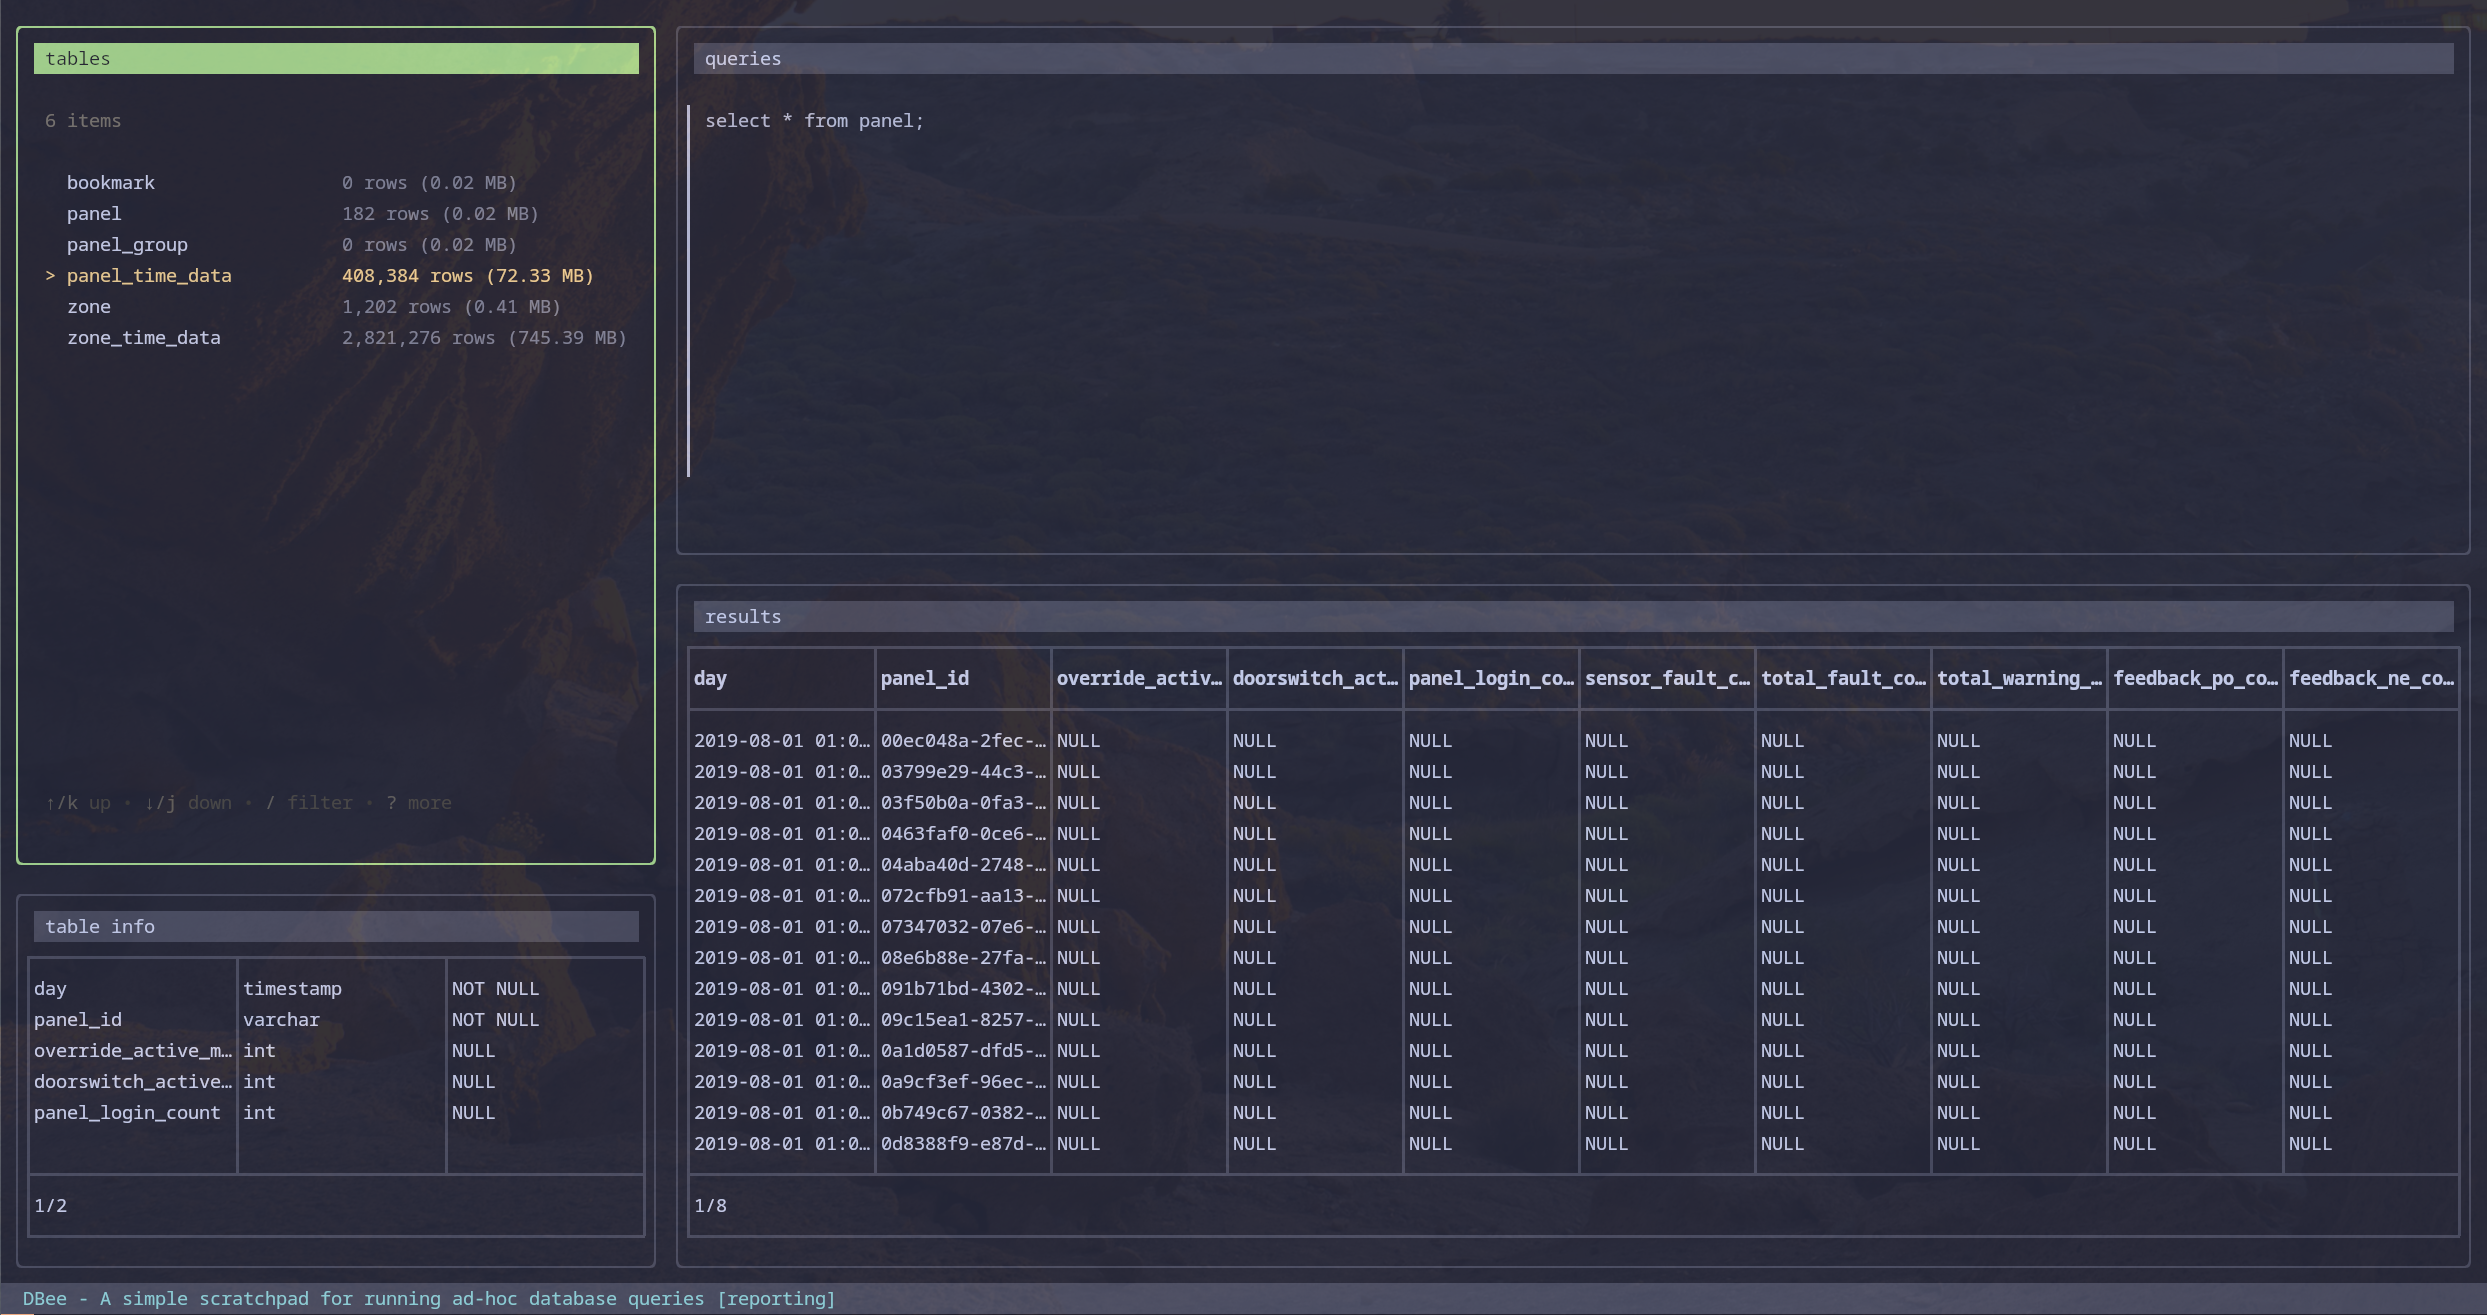
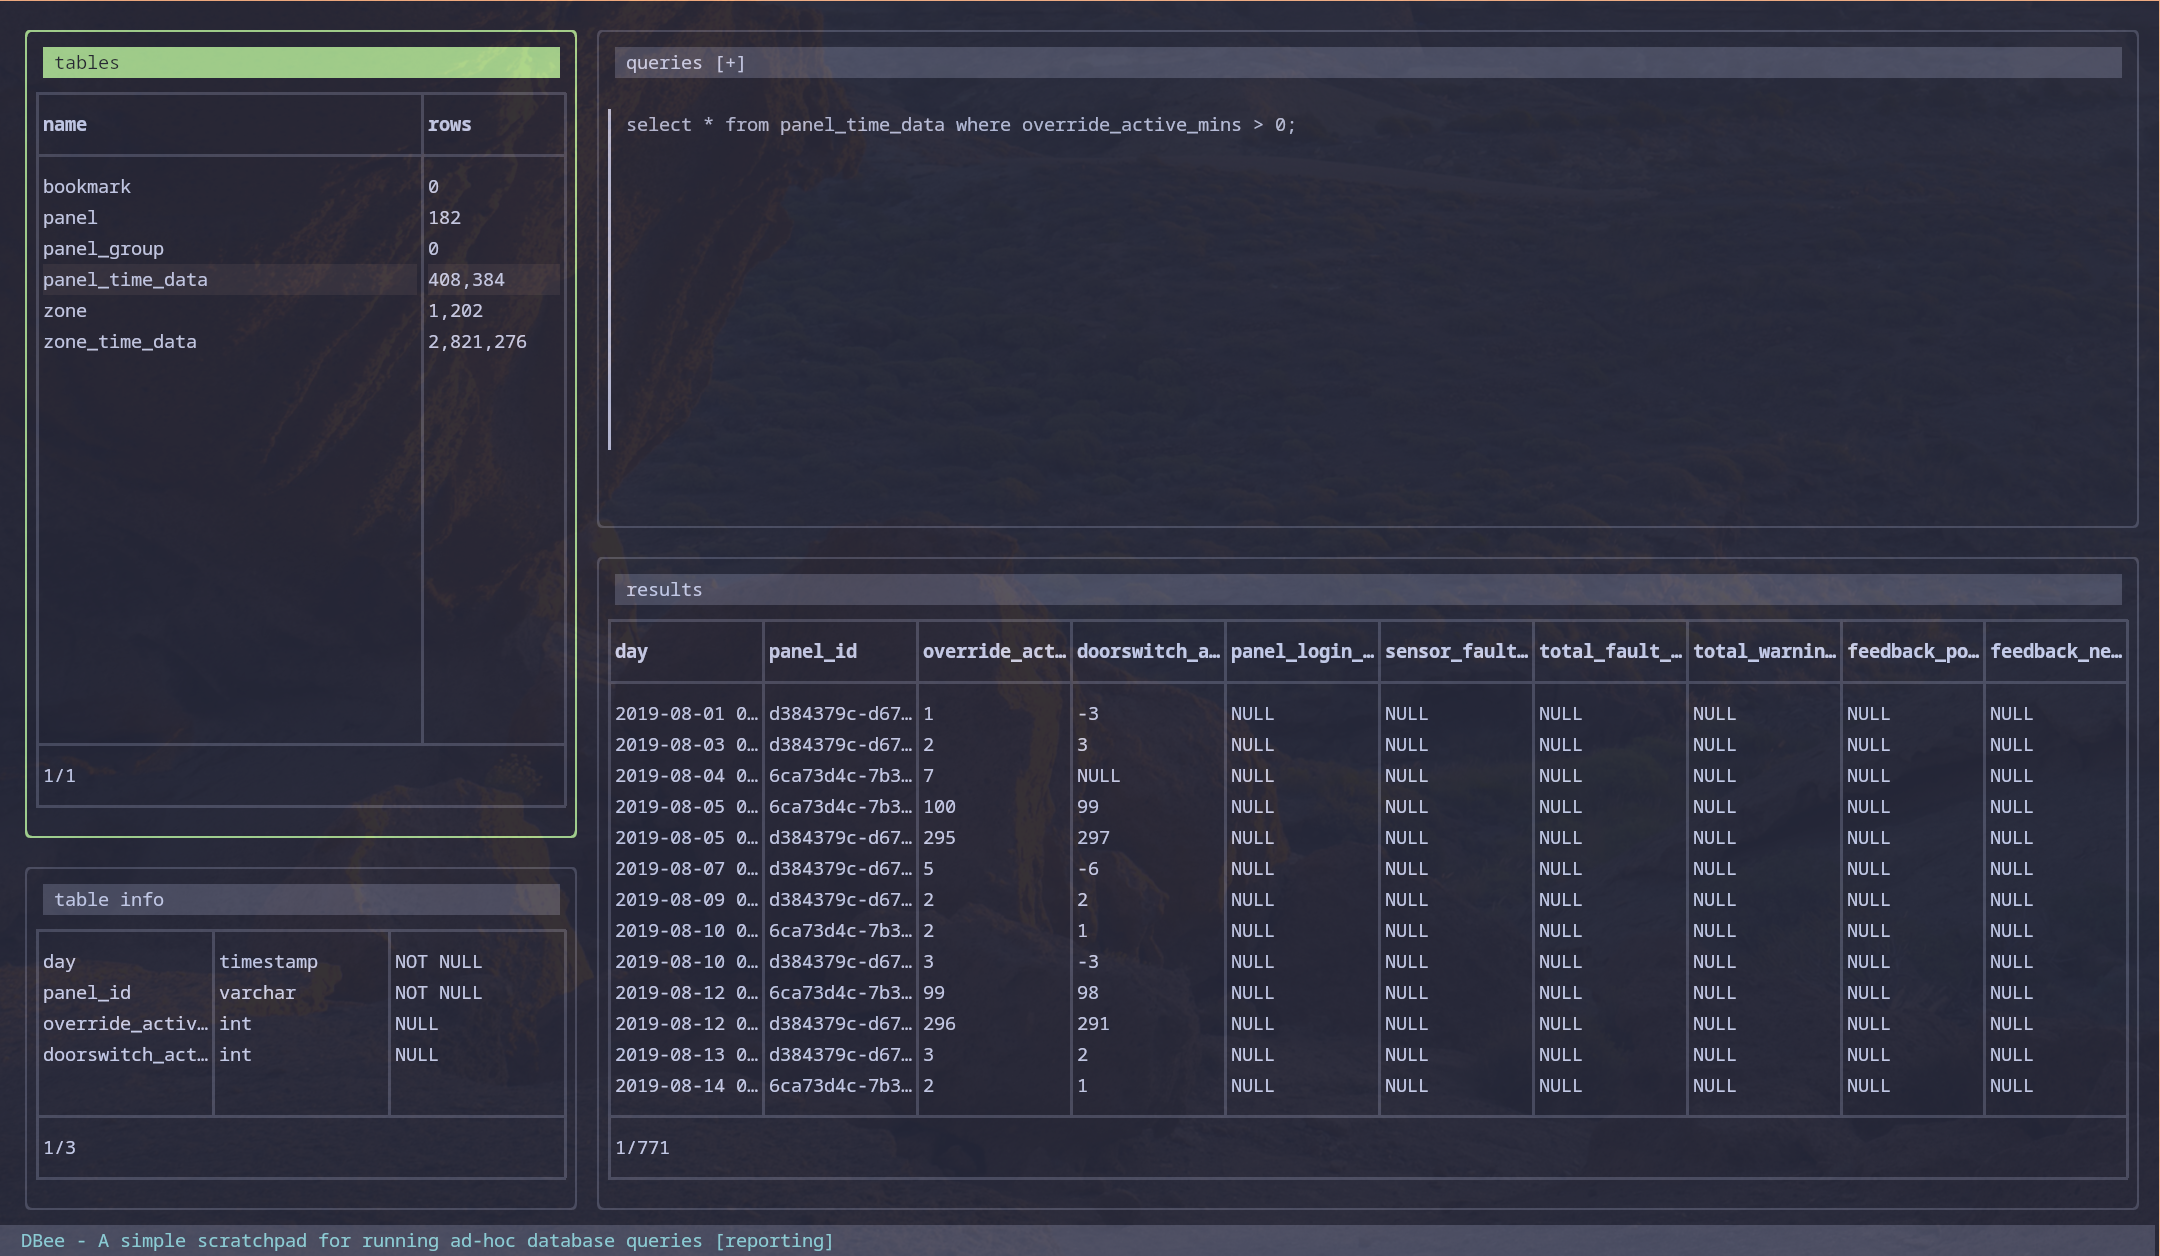
chore: update readme and screenshot

Changed region(s): [[0.0, 0.0, 1.0, 1.0], [0.1551, 0.59, 0.1861, 0.621], [0.062, 0.59, 0.0931, 0.621]]

diff --git a/README.md b/README.md
@@ -19,7 +19,7 @@ The database alias must match the name of a database configuration in your confi
 
 ## Installation
 
-`go install github.com/wheelibin/dbee`
+`go install github.com/wheelibin/dbee@latest`
 
 ## Config
 
